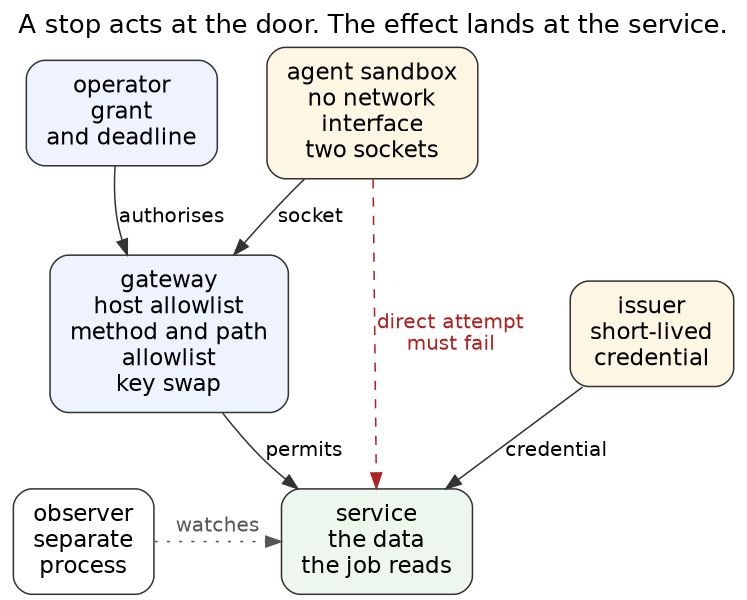
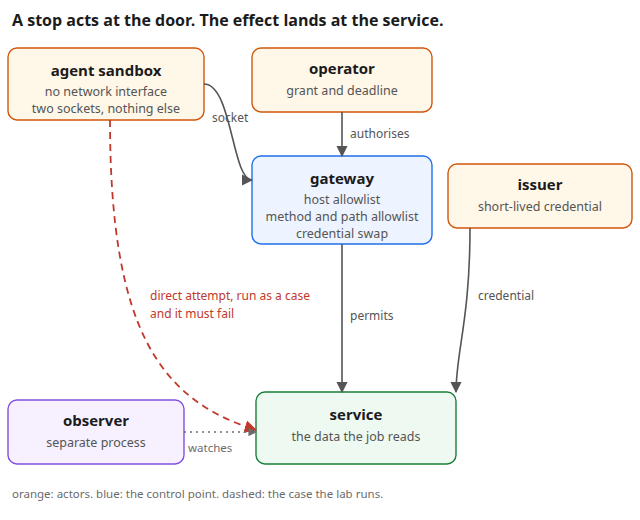
post: retitle, reframe the close, redraw the authority map

diff --git a/_posts/2026-09-21-agent-task-scoped-access.md b/_posts/2026-09-21-agent-task-scoped-access.md
@@ -1,6 +1,6 @@
 ---
 layout: post
-title: "Handing an agent a database credential"
+title: "What happens when I revoke an agent's access"
 date: 2026-09-21 05:50:00 +0700
 author: bhanuharya
 tags: [agents, security, access-control, self-hosting]
@@ -61,7 +61,7 @@ The second is an option named for tests, described in the source as a test-only 
 
 I now treat every claim of the form "the code does this, at this file and line" as unverified until I have fetched that source and grepped for the identifier. Doing it here turned up three problems, and only one of them was cosmetic. A line number can move, which is stale and easy to fix. An identifier can be gone or renamed, which means the mechanism my plan was built on does not exist in the version I am about to pin, and that is a design problem. A citation can never have existed, which is the expensive one, and it usually arrives inside a document that is otherwise careful.
 
-The habit that has paid off more often is checking the enforcement site rather than the declaration. A type or a function existing proves nothing about behaviour. In the gateway I read, the endpoint filter is declared in one file and actually called in the mitm proxy, on the request path, right before the credential swap. Stopping at the declaration would have given me a sentence that was true and misleading.
+The habit that has paid off more often is going to the enforcement site, the place that decides behaviour. A type or a function existing proves nothing about behaviour. In the gateway I read, the endpoint filter is declared in one file and actually called in the mitm proxy, on the request path, right before the credential swap. Stopping at the declaration would have given me a sentence that was true and misleading.
 
 ```bash
 # five mentions in the tree, and one place that decides anything
@@ -73,22 +73,29 @@ src/docker/mitm-proxy.ts:1105:    if (!isEndpointAllowed(provider.config, method
 
 Five hits, two of them comments and one an import. Exactly one runs on the request path, and that is the one that decides whether the filter means anything.
 
-## How I would find out
+## What would settle it
 
-Reading gets me a defensible hypothesis and a set of testable seams. It does not tell me whether a stopped grant can still land an effect, which is the question worth answering, so the plan is a measurement first.
+Reading gives me a hypothesis and a set of seams worth testing. It cannot tell me whether a stopped grant still lands an effect, and that is the question the whole post turns on.
 
 ![Where the authority sits, and where a stop acts](/assets/img/authority-map.png)
 
-*The roles, and the claim under test. A stop acts at the top of that flow, the effect lands at the service, the direct attempt from the sandbox is tested as a case, and the observer is a separate process that the task cannot see.*
+*The roles and the claim under test. A stop acts at the gateway, the effect lands at the service, the direct attempt from the sandbox is run as a case, and the observer is a separate process the task cannot see.*
 
-The shape I settled on is deliberately small: one issuer, one service, one observer. Freeze the expected outcome for each case before running anything, because an expectation written afterwards is a description. Include a calibration case where a permitted operation must succeed, so a later denial cannot be confused with a broken lab. Separate the lifecycle events, since one verdict hides the ordering. Observe from a process that is not the one under test. Mark any case that cannot separate two events as inconclusive and do not merge it into a story. Record the negative controls, including an actual attempt to reach the service directly, because inferring that from the topology is not the same as watching it fail.
+The lab stays small on purpose, one issuer, one service, one observer, and six rules that decide whether it can tell me anything:
 
-The gateway only earns its place once the small version produces something that needs it. Adding it first spends the budget on plumbing and arrives at the interesting question late.
+- write down what each case should show before running it, since an expectation written afterwards is a description
+- include a permitted operation that must succeed, so a later denial cannot be a broken lab
+- keep the four lifecycle events separate, because one verdict hides the ordering
+- observe from a process that is not the one under test
+- mark any case that cannot separate two events as inconclusive, and keep it out of the story
+- run the direct attempt as a control, because inferring it from the topology is not the same as watching it fail
 
-## What I have not run
+The gateway earns its place once the small version produces something that needs it. Added first, it spends the budget on plumbing and reaches the interesting question late.
 
-Nothing here has been run. No component is installed, no version is pinned, and every third-party statement above is documentation and source reading at one revision, which is a pointer and not evidence about the release I would actually use. One gateway having a particular endpoint filter and a particular pair of escape hatches says nothing about the category either, and one realization of a lab says nothing general.
+## Where this stands
 
-If the native controls close the gap once they are configured carefully, the honest output is a recipe and a negative result. I wrote that exit into the plan along with the conditions that trigger it, because the alternative is a project that keeps going to justify itself.
+Everything above is documentation and source reading at one revision. Nothing has been run, no version is pinned, and one gateway's allowlist and its pair of escape hatches say nothing about the category, the same way one lab says nothing general.
 
-I am still exploring this. The next step is deliberately unexciting: pin the versions, write down what each case should show before running anything, and get one honest measurement out of an issuer, a service and an observer. Whatever it says, the measurement is the part worth publishing. More when I have it.
+If the native controls close the gap once they are configured carefully, the honest output is a recipe and a negative result. I wrote that exit into the plan with the conditions that trigger it, because the alternative is a project that keeps going to justify itself.
+
+The case I am looking for is an effect that lands after the door closes. If it exists, the control everyone reaches for is narrower than it looks, and that is worth saying out loud. If it does not, the recipe is the answer. Either way, the next step is the one that produces evidence instead of more reading.
